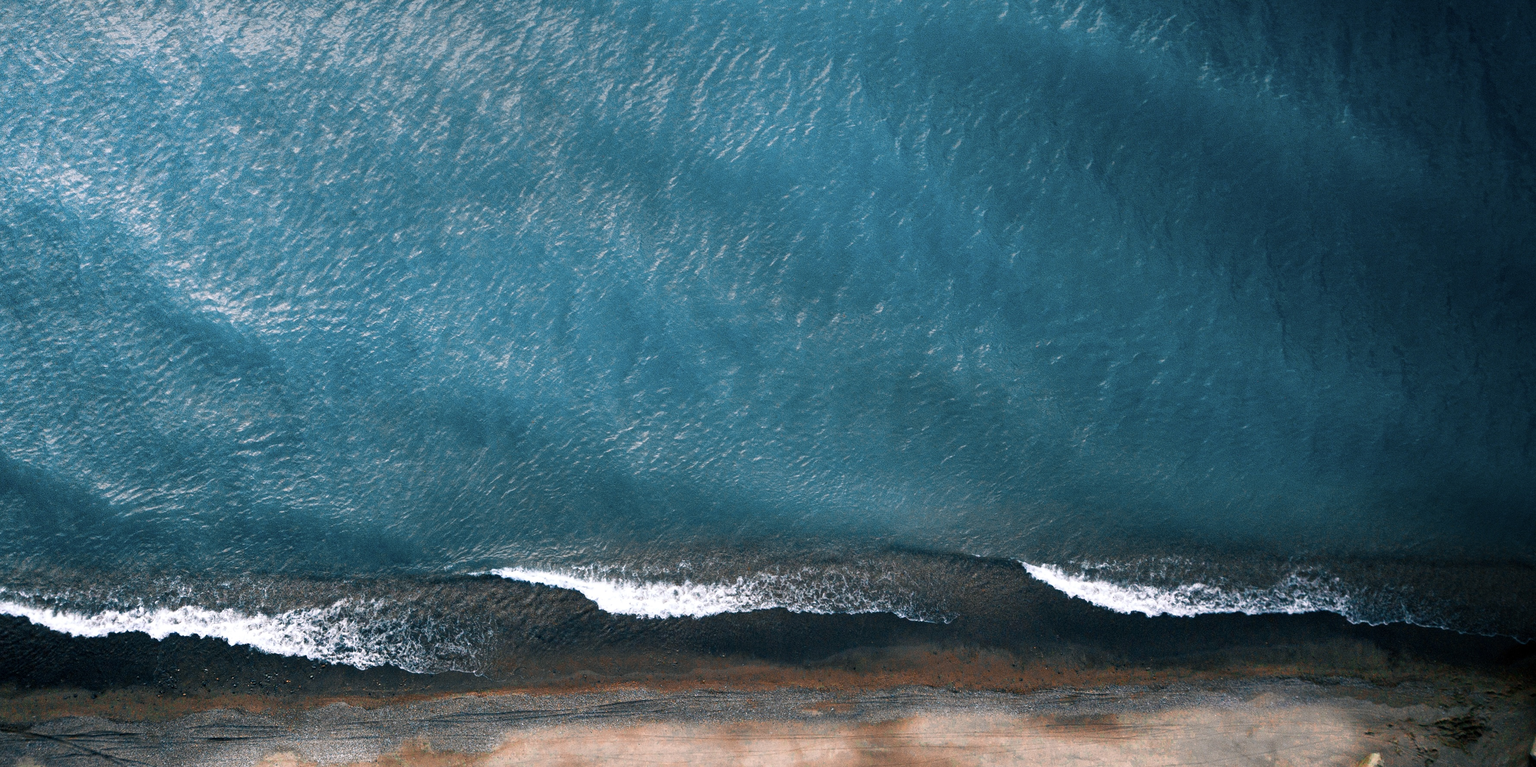
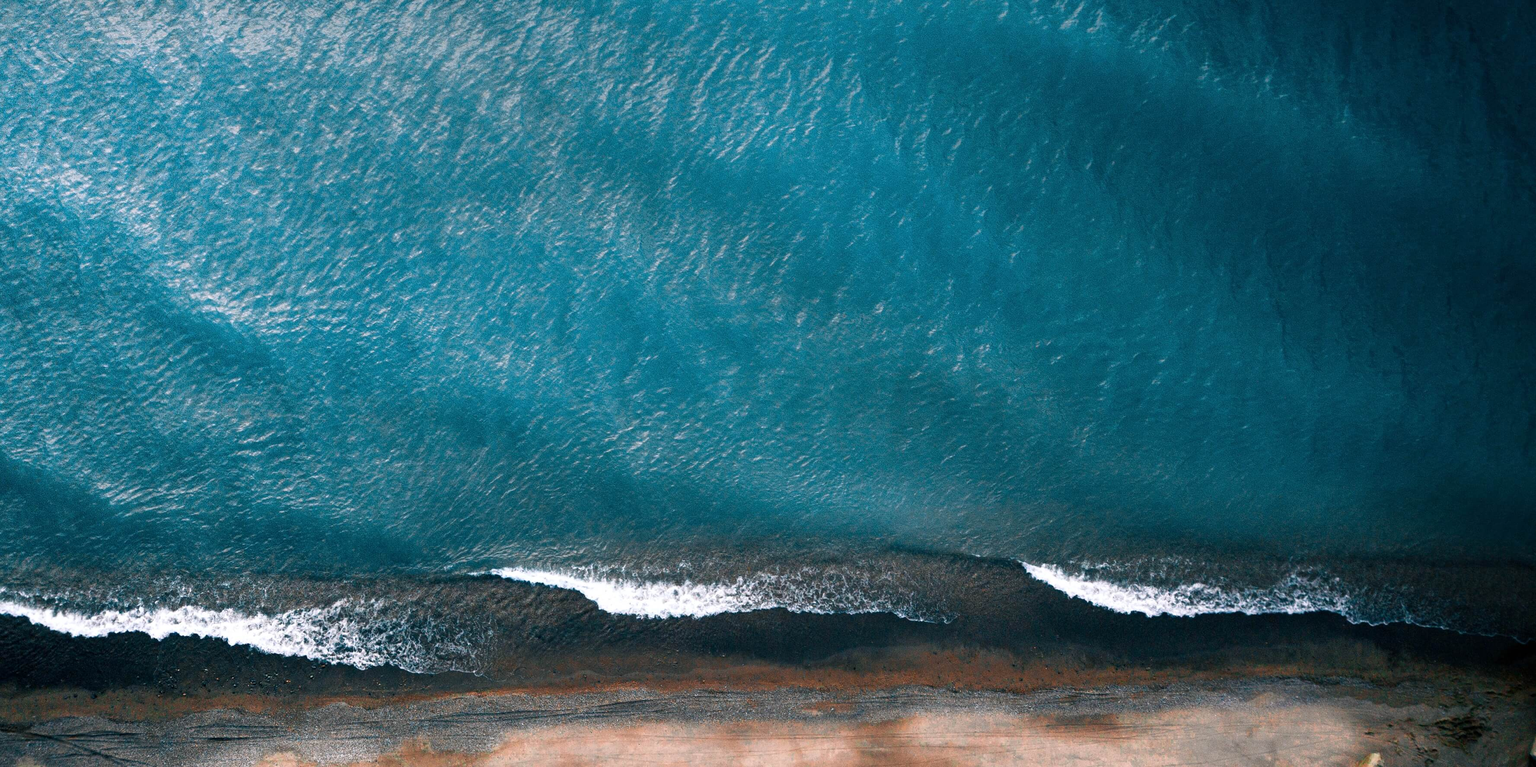
comprimo imagenes para q sean mas livianas

diff --git a/index.html b/index.html
@@ -57,7 +57,7 @@
                         </nav>
             
             <!-- Header-->
-            <header class=" py-5" style="background: url('/img/_MG_5908.jpg');background-size:cover;" >
+            <header class=" py-5" style="background: url('/img/_MG_5908-1.jpg');background-size:cover;" >
                 <div class="container px-5">
                     <div class="row gx-5 align-items-center justify-content-center">
                         <div class="col-lg-8 col-xl-7 col-xxl-6">
